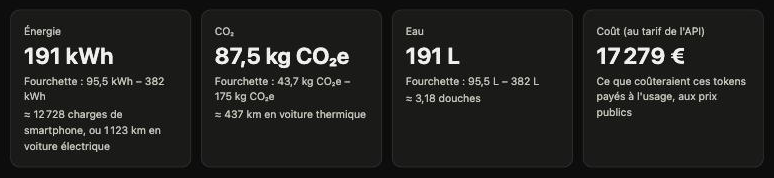
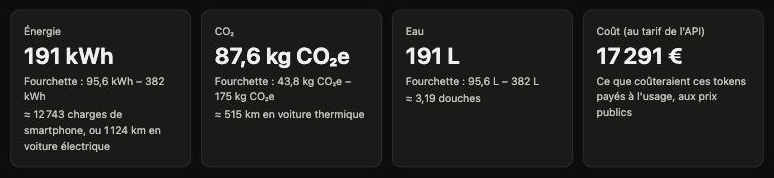
Set the petrol-car equivalent to 170 g CO2e/km
ADEME's value for an average petrol car, manufacturing included, instead
of the round 200 g used so far. Only the "km by petrol car" line under
the CO2 tile changes. The method document, the roadmap and the README
screenshots follow.

diff --git a/index.html b/index.html
@@ -4,7 +4,7 @@
   <meta charset="utf-8">
   <meta name="viewport" content="width=device-width, initial-scale=1">
   <title>EnergIA – ce que représente votre usage de l'IA</title>
-  <link rel="stylesheet" href="styles.css?v=78b68bb3">
+  <link rel="stylesheet" href="styles.css?v=4f391937">
 </head>
 <body class="viz-root">
   <header class="top">
@@ -183,16 +183,16 @@
   <script type="importmap">
   {
     "imports": {
-      "./src/card.js": "./src/card.js?v=78b68bb3",
-      "./src/csv.js": "./src/csv.js?v=78b68bb3",
-      "./src/i18n.js": "./src/i18n.js?v=78b68bb3",
-      "./src/model.js": "./src/model.js?v=78b68bb3",
-      "./src/parsers.js": "./src/parsers.js?v=78b68bb3",
-      "./src/report.js": "./src/report.js?v=78b68bb3",
-      "./src/zip.js": "./src/zip.js?v=78b68bb3"
+      "./src/card.js": "./src/card.js?v=4f391937",
+      "./src/csv.js": "./src/csv.js?v=4f391937",
+      "./src/i18n.js": "./src/i18n.js?v=4f391937",
+      "./src/model.js": "./src/model.js?v=4f391937",
+      "./src/parsers.js": "./src/parsers.js?v=4f391937",
+      "./src/report.js": "./src/report.js?v=4f391937",
+      "./src/zip.js": "./src/zip.js?v=4f391937"
     }
   }
   </script>
-  <script type="module" src="src/app.js?v=78b68bb3"></script>
+  <script type="module" src="src/app.js?v=4f391937"></script>
 </body>
 </html>

diff --git a/src/model.js b/src/model.js
@@ -108,7 +108,7 @@ export function subscriptionCost(rows, settings) {
 export const EQUIVALENTS = {
   smartphoneChargeWh: 15,
   electricCarWhPerKm: 170,
-  petrolCarGPerKm: 200,
+  petrolCarGPerKm: 170, // average petrol car, manufacturing included (ADEME, impactco2.fr)
   glassL: 0.25,
   showerL: 60,
 };

diff --git a/METHOD.fr.md b/METHOD.fr.md
@@ -215,7 +215,7 @@ voici ce que disent les sources.
 |---|---|---|
 | Une charge de smartphone | 15 Wh | Capacité de batterie d'un téléphone récent : 4 000 mAh pour un [Galaxy S25](https://www.samsung.com/nz/smartphones/galaxy-s25/specs/), soit environ 15 Wh à 3,85 V (conversion d'EnergIA). L'[EPA américaine](https://www.epa.gov/energy/greenhouse-gas-equivalencies-calculator-calculations-and-references) compte 19 Wh à la prise, pertes du chargeur comprises. |
 | Un kilomètre en voiture électrique | 170 Wh | Étiquette américaine d'une [Tesla Model Y Long Range 2026](https://www.fueleconomy.gov/feg/PowerSearch.do?action=noform&path=1&year1=2025&year2=2026&make=Tesla&baseModel=Model%20Y&srchtyp=ymm) : 27 kWh pour 100 miles, soit environ 168 Wh/km. L'[AIE](https://www.iea.org/reports/global-ev-outlook-2025/electric-vehicle-charging) retient 200 Wh/km en usage réel. |
-| Un kilomètre en voiture thermique | 200 g CO₂e | **Plutôt haut.** L'[ADEME](https://impactco2.fr/outils/transport/voiturethermique) donne 170 g CO₂e/km pour une voiture essence moyenne, fabrication comprise, 189 g pour une berline et 246 g pour un SUV. |
+| Un kilomètre en voiture thermique | 170 g CO₂e | La valeur de l'[ADEME](https://impactco2.fr/outils/transport/voiturethermique) pour une voiture essence moyenne, fabrication comprise ; 189 g pour une berline et 246 g pour un SUV. |
 | Une douche | 60 L | [Eaufrance](https://www.services.eaufrance.fr/economie-d-eau) : 35 à 60 L pour une douche rapide. [Ministère de l'Écologie](https://archive-2017-2022.ecologie.gouv.fr/actualites/22-mars-cest-journee-mondiale-leau-0) (2018) : 60 à 80 L. |
 | Un verre d'eau | 0,25 L | Une convention : 250 mL est la tasse métrique. |
 
@@ -232,7 +232,6 @@ Dans l'ordre d'importance pour les résultats :
 5. **Le périmètre de l'eau** : le refroidissement seulement, pas la production
    d'électricité.
 6. **Le pays** : inconnu, donc moyenne mondiale par défaut.
-7. **L'équivalent « voiture thermique »** : plus haut que la moyenne de l'ADEME.
 
 Aucune de ces valeurs n'est cachée : toutes se modifient dans la page, et le rapport
 mensuel liste celles qui ont servi au calcul.

diff --git a/METHOD.md b/METHOD.md
@@ -210,7 +210,7 @@ here is what the sources say.
 |---|---|---|
 | One smartphone charge | 15 Wh | Battery capacity of a recent phone: 4,000 mAh for a [Galaxy S25](https://www.samsung.com/nz/smartphones/galaxy-s25/specs/), about 15 Wh at 3.85 V (EnergIA's conversion). The [US EPA](https://www.epa.gov/energy/greenhouse-gas-equivalencies-calculator-calculations-and-references) counts 19 Wh at the socket, charger losses included. |
 | One kilometre by electric car | 170 Wh | US label of a [2026 Tesla Model Y Long Range](https://www.fueleconomy.gov/feg/PowerSearch.do?action=noform&path=1&year1=2025&year2=2026&make=Tesla&baseModel=Model%20Y&srchtyp=ymm): 27 kWh per 100 miles, about 168 Wh/km. The [IEA](https://www.iea.org/reports/global-ev-outlook-2025/electric-vehicle-charging) uses 200 Wh/km in real use. |
-| One kilometre by petrol car | 200 g CO₂e | **Rather high.** [ADEME](https://impactco2.fr/outils/transport/voiturethermique) gives 170 g CO₂e/km for an average petrol car, manufacturing included, 189 g for a saloon and 246 g for an SUV. |
+| One kilometre by petrol car | 170 g CO₂e | [ADEME](https://impactco2.fr/outils/transport/voiturethermique)'s value for an average petrol car, manufacturing included; 189 g for a saloon and 246 g for an SUV. |
 | One shower | 60 L | [Eaufrance](https://www.services.eaufrance.fr/economie-d-eau): 35 to 60 L for a quick shower. [French Ministry of Ecology](https://archive-2017-2022.ecologie.gouv.fr/actualites/22-mars-cest-journee-mondiale-leau-0) (2018): 60 to 80 L. |
 | One glass of water | 0.25 L | A convention: 250 mL is the metric cup. |
 
@@ -226,7 +226,6 @@ In order of importance for the results:
 4. **The tokens of Claude exports**: underestimated by the 4-character rule.
 5. **The scope of water**: cooling only, not electricity generation.
 6. **The country**: unknown, hence the world average by default.
-7. **The "petrol car" equivalent**: higher than ADEME's average.
 
 None of these values is hidden: all can be changed in the page, and the monthly report
 lists those that were used for the calculation.

diff --git a/README.fr.md b/README.fr.md
@@ -16,7 +16,7 @@ Claude Code et Claude Cowork. Elle existe sous deux formes, qui partagent la mê
 
 *Le tableau de bord, ici avec les données d'exemple intégrées.*
 
-![Les quatre tuiles de résumé en thème sombre : 191 kWh, 87,5 kg CO₂e, 191 L et 17 279 € au tarif de l'API](docs/tuiles.png)
+![Les quatre tuiles de résumé en thème sombre : 191 kWh, 87,6 kg CO₂e, 191 L et 17 291 € au tarif de l'API](docs/tuiles.png)
 
 *Les tuiles de résumé, ici pour un usage réel de Claude Code sur huit mois, avec la moyenne
 mondiale pour le CO₂.*
@@ -386,8 +386,7 @@ Puis, sans ordre arrêté :
   documenté.
 - **Méthode** : elle est maintenant [documentée avec ses sources](METHOD.fr.md). Reste à
   décider s'il faut ajuster les valeurs par défaut qui s'en écartent : l'eau, le poids des
-  tokens relus du cache, les tokens des exports Claude et l'équivalent « voiture
-  thermique ».
+  tokens relus du cache et les tokens des exports Claude.
 - **Prix** : les mettre à jour sans intervention ; c'est manuel aujourd'hui.
 - **Windows** : une installation en une commande, comme sous macOS et Linux.
 - **Anglais** : restent en français quelques noms internes du code.

diff --git a/README.md b/README.md
@@ -19,7 +19,7 @@ browser, English otherwise), and the link at the top right of the page switches 
 
 *The dashboard, here with the built-in sample data.*
 
-![The four summary tiles in dark theme: 191 kWh, 87.5 kg CO₂e, 191 L and €17,279 at API prices](docs/tuiles.png)
+![The four summary tiles in dark theme: 191 kWh, 87.6 kg CO₂e, 191 L and €17,291 at API prices](docs/tuiles.png)
 
 *The summary tiles, here for eight months of real Claude Code usage, with the world average
 for CO₂.*
@@ -368,7 +368,7 @@ Then, in no set order:
   allow, and the CSV exports of organisation consoles, whose format is not documented.
 - **Method**: it is now [documented with its sources](METHOD.md). Still to decide: whether
   to adjust the default values that differ from them: water, the weight of tokens re-read
-  from the cache, the tokens of Claude exports and the "petrol car" equivalent.
+  from the cache and the tokens of Claude exports.
 - **Prices**: updating them without intervention; it is manual today.
 - **Windows**: a one-command install, as on macOS and Linux.
 - **English**: a few internal names in the code are still in French.
